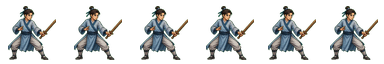
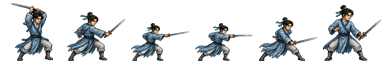
Redo sect novice enemy from GPT sheets

diff --git a/tools/cut_task41_sect_novice_sheet.py b/tools/cut_task41_sect_novice_sheet.py
@@ -1,0 +1,134 @@
+#!/usr/bin/env python3
+from pathlib import Path
+from PIL import Image
+
+ROOT = Path(__file__).resolve().parents[1]
+IDLE_SRC = ROOT / "assets/source/task41/sect_novice_idle_sheet_v1.png"
+ANIM_SRC = ROOT / "assets/source/task41/sect_novice_anim_sheet_v1.png"
+OUT_DIR = ROOT / "assets/characters/enemies/sect_novice"
+
+FRAME_BOXES = {
+    "idle": [
+        (111, 139, 573, 587),
+        (644, 145, 1096, 587),
+        (1159, 148, 1624, 586),
+        (1687, 141, 2144, 587),
+    ],
+    "attack": [
+        (42, 263, 233, 507),
+        (294, 289, 544, 506),
+        (551, 288, 861, 502),
+        (840, 287, 1150, 502),
+        (1130, 294, 1394, 502),
+        (1418, 286, 1648, 506),
+    ],
+    "hurt": [
+        (73, 520, 305, 730),
+        (415, 528, 617, 730),
+        (681, 527, 879, 730),
+    ],
+    "death": [
+        (45, 765, 330, 896),
+        (354, 775, 645, 896),
+        (660, 778, 995, 906),
+        (1050, 792, 1388, 903),
+    ],
+}
+
+
+def white_to_alpha(im):
+    im = im.convert("RGBA")
+    px = im.load()
+    for y in range(im.height):
+        for x in range(im.width):
+            r, g, b, a = px[x, y]
+            dist = max(0, 255 - min(r, g, b))
+            if r > 238 and g > 238 and b > 238:
+                px[x, y] = (r, g, b, 0)
+            elif r > 220 and g > 220 and b > 220:
+                px[x, y] = (r, g, b, min(a, dist * 7))
+    return im
+
+
+def remove_small_fragments(im, min_area=20):
+    alpha = im.getchannel("A")
+    w, h = im.size
+    pix = alpha.load()
+    seen = set()
+    comps = []
+    for y in range(h):
+        for x in range(w):
+            if pix[x, y] <= 8 or (x, y) in seen:
+                continue
+            stack = [(x, y)]
+            seen.add((x, y))
+            pts = []
+            while stack:
+                px, py = stack.pop()
+                pts.append((px, py))
+                for nx in (px - 1, px, px + 1):
+                    for ny in (py - 1, py, py + 1):
+                        if nx < 0 or ny < 0 or nx >= w or ny >= h or (nx, ny) in seen:
+                            continue
+                        if pix[nx, ny] > 8:
+                            seen.add((nx, ny))
+                            stack.append((nx, ny))
+            comps.append(pts)
+    keep = set()
+    for pts in comps:
+        if len(pts) >= min_area:
+            keep.update(pts)
+    out = Image.new("RGBA", im.size, (0, 0, 0, 0))
+    src = im.load()
+    dst = out.load()
+    for x, y in keep:
+        dst[x, y] = src[x, y]
+    return out
+
+
+def strip_edge_alpha(im):
+    px = im.load()
+    w, h = im.size
+    for x in range(w):
+        px[x, 0] = px[x, 0][:3] + (0,)
+        px[x, h - 1] = px[x, h - 1][:3] + (0,)
+    for y in range(h):
+        px[0, y] = px[0, y][:3] + (0,)
+        px[w - 1, y] = px[w - 1, y][:3] + (0,)
+    return im
+
+
+def fit_frame(crop, size=64, pad=3):
+    crop = remove_small_fragments(white_to_alpha(crop))
+    bbox = crop.getchannel("A").getbbox()
+    out = Image.new("RGBA", (size, size), (0, 0, 0, 0))
+    if not bbox:
+        return out
+    spr = crop.crop(bbox)
+    scale = min((size - pad * 2) / spr.width, (size - pad * 2) / spr.height)
+    nw = max(1, int(spr.width * scale))
+    nh = max(1, int(spr.height * scale))
+    spr = spr.resize((nw, nh), Image.Resampling.LANCZOS)
+    out.alpha_composite(spr, ((size - nw) // 2, size - pad - nh))
+    return strip_edge_alpha(remove_small_fragments(out))
+
+
+def join(frames):
+    out = Image.new("RGBA", (64 * len(frames), 64), (0, 0, 0, 0))
+    for i, fr in enumerate(frames):
+        out.alpha_composite(fr, (i * 64, 0))
+    return out
+
+
+def main():
+    idle_sheet = Image.open(IDLE_SRC).convert("RGBA")
+    anim_sheet = Image.open(ANIM_SRC).convert("RGBA")
+    OUT_DIR.mkdir(parents=True, exist_ok=True)
+    for anim, boxes in FRAME_BOXES.items():
+        src = idle_sheet if anim == "idle" else anim_sheet
+        frames = [fit_frame(src.crop(box)) for box in boxes]
+        join(frames).save(OUT_DIR / f"{anim}.png")
+
+
+if __name__ == "__main__":
+    main()
